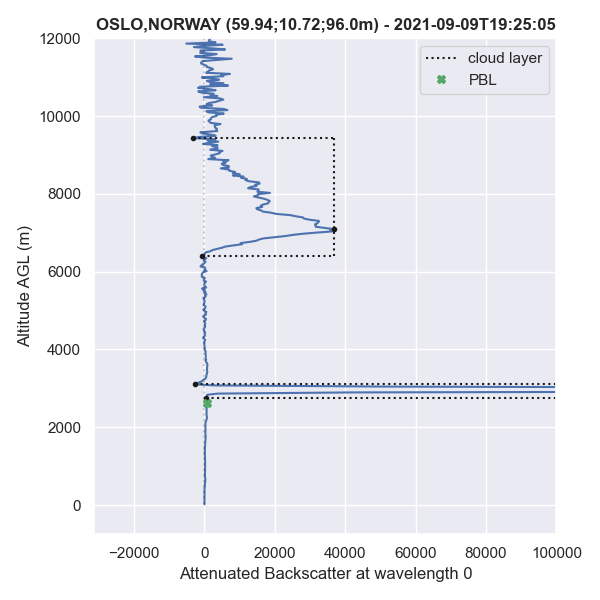
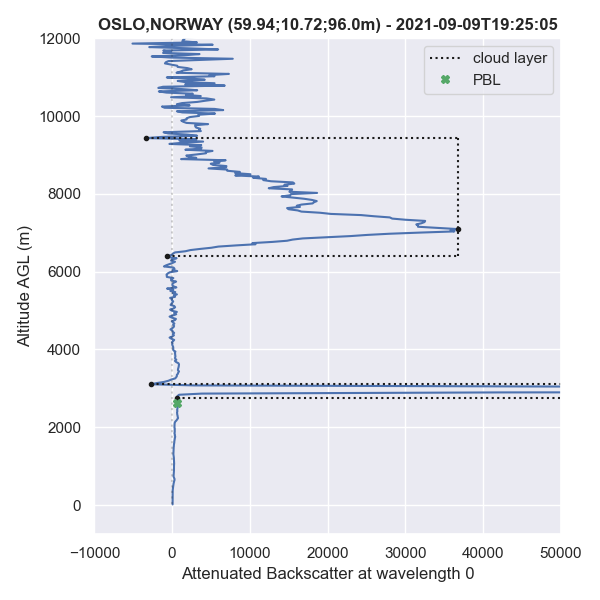
update README

diff --git a/main.py b/main.py
@@ -36,11 +36,11 @@ profiles.detect_clouds(zmin=300, thr_noise=5, thr_clouds=4, verbose=True)
 profiles.detect_pbl(zmin=100, zmax=3000, under_clouds=True, verbose=True)
 
 #plot image
-profiles.plot(zref='agl', show_fog=True, show_clouds=True, show_pbl=True, log=True, vmin=1e1, vmax=1e5)
+#profiles.plot(zref='agl', show_fog=True, show_clouds=True, show_pbl=True, log=True, vmin=1e1, vmax=1e5)
 
 #plot single profile
 datetime = np.datetime64('2021-09-09T19:25:00')
-profiles.plot(datetime=datetime, vmax=1e5, zmax=12000, show_fog=True, show_clouds=True, show_pbl=True)
+profiles.plot(datetime=datetime, vmin=-1e4, vmax=5e4, zmax=12000, show_fog=True, show_clouds=True, show_pbl=True)
 
 ##produce rayleigh profile
 #altitude = profiles.data.altitude.data

diff --git a/README.md b/README.md
@@ -61,7 +61,6 @@ profiles.plot(show_fog=True, show_clouds=True, show_pbl=True, vmin=1e1, vmax=1e5
 ```
 #Plot single profile at 19:25
 datetime = np.datetime64('2021-09-09T19:25:00')
-profiles.plot(datetime=datetime, vmax=1e5, show_fog=True, show_clouds=True, show_pbl=True)
-profiles.plot(datetime=datetime, show_fog=True, show_clouds=True, log=False)
+profiles.plot(datetime=datetime, vmin=-1e4, vmax=5e4, zmax=12000, show_fog=True, show_clouds=True, show_pbl=True)
 ```
 <img src="examples/img/Profile-Oslo-20210909T192505.png" title="Single Profile View" width="400"/>
